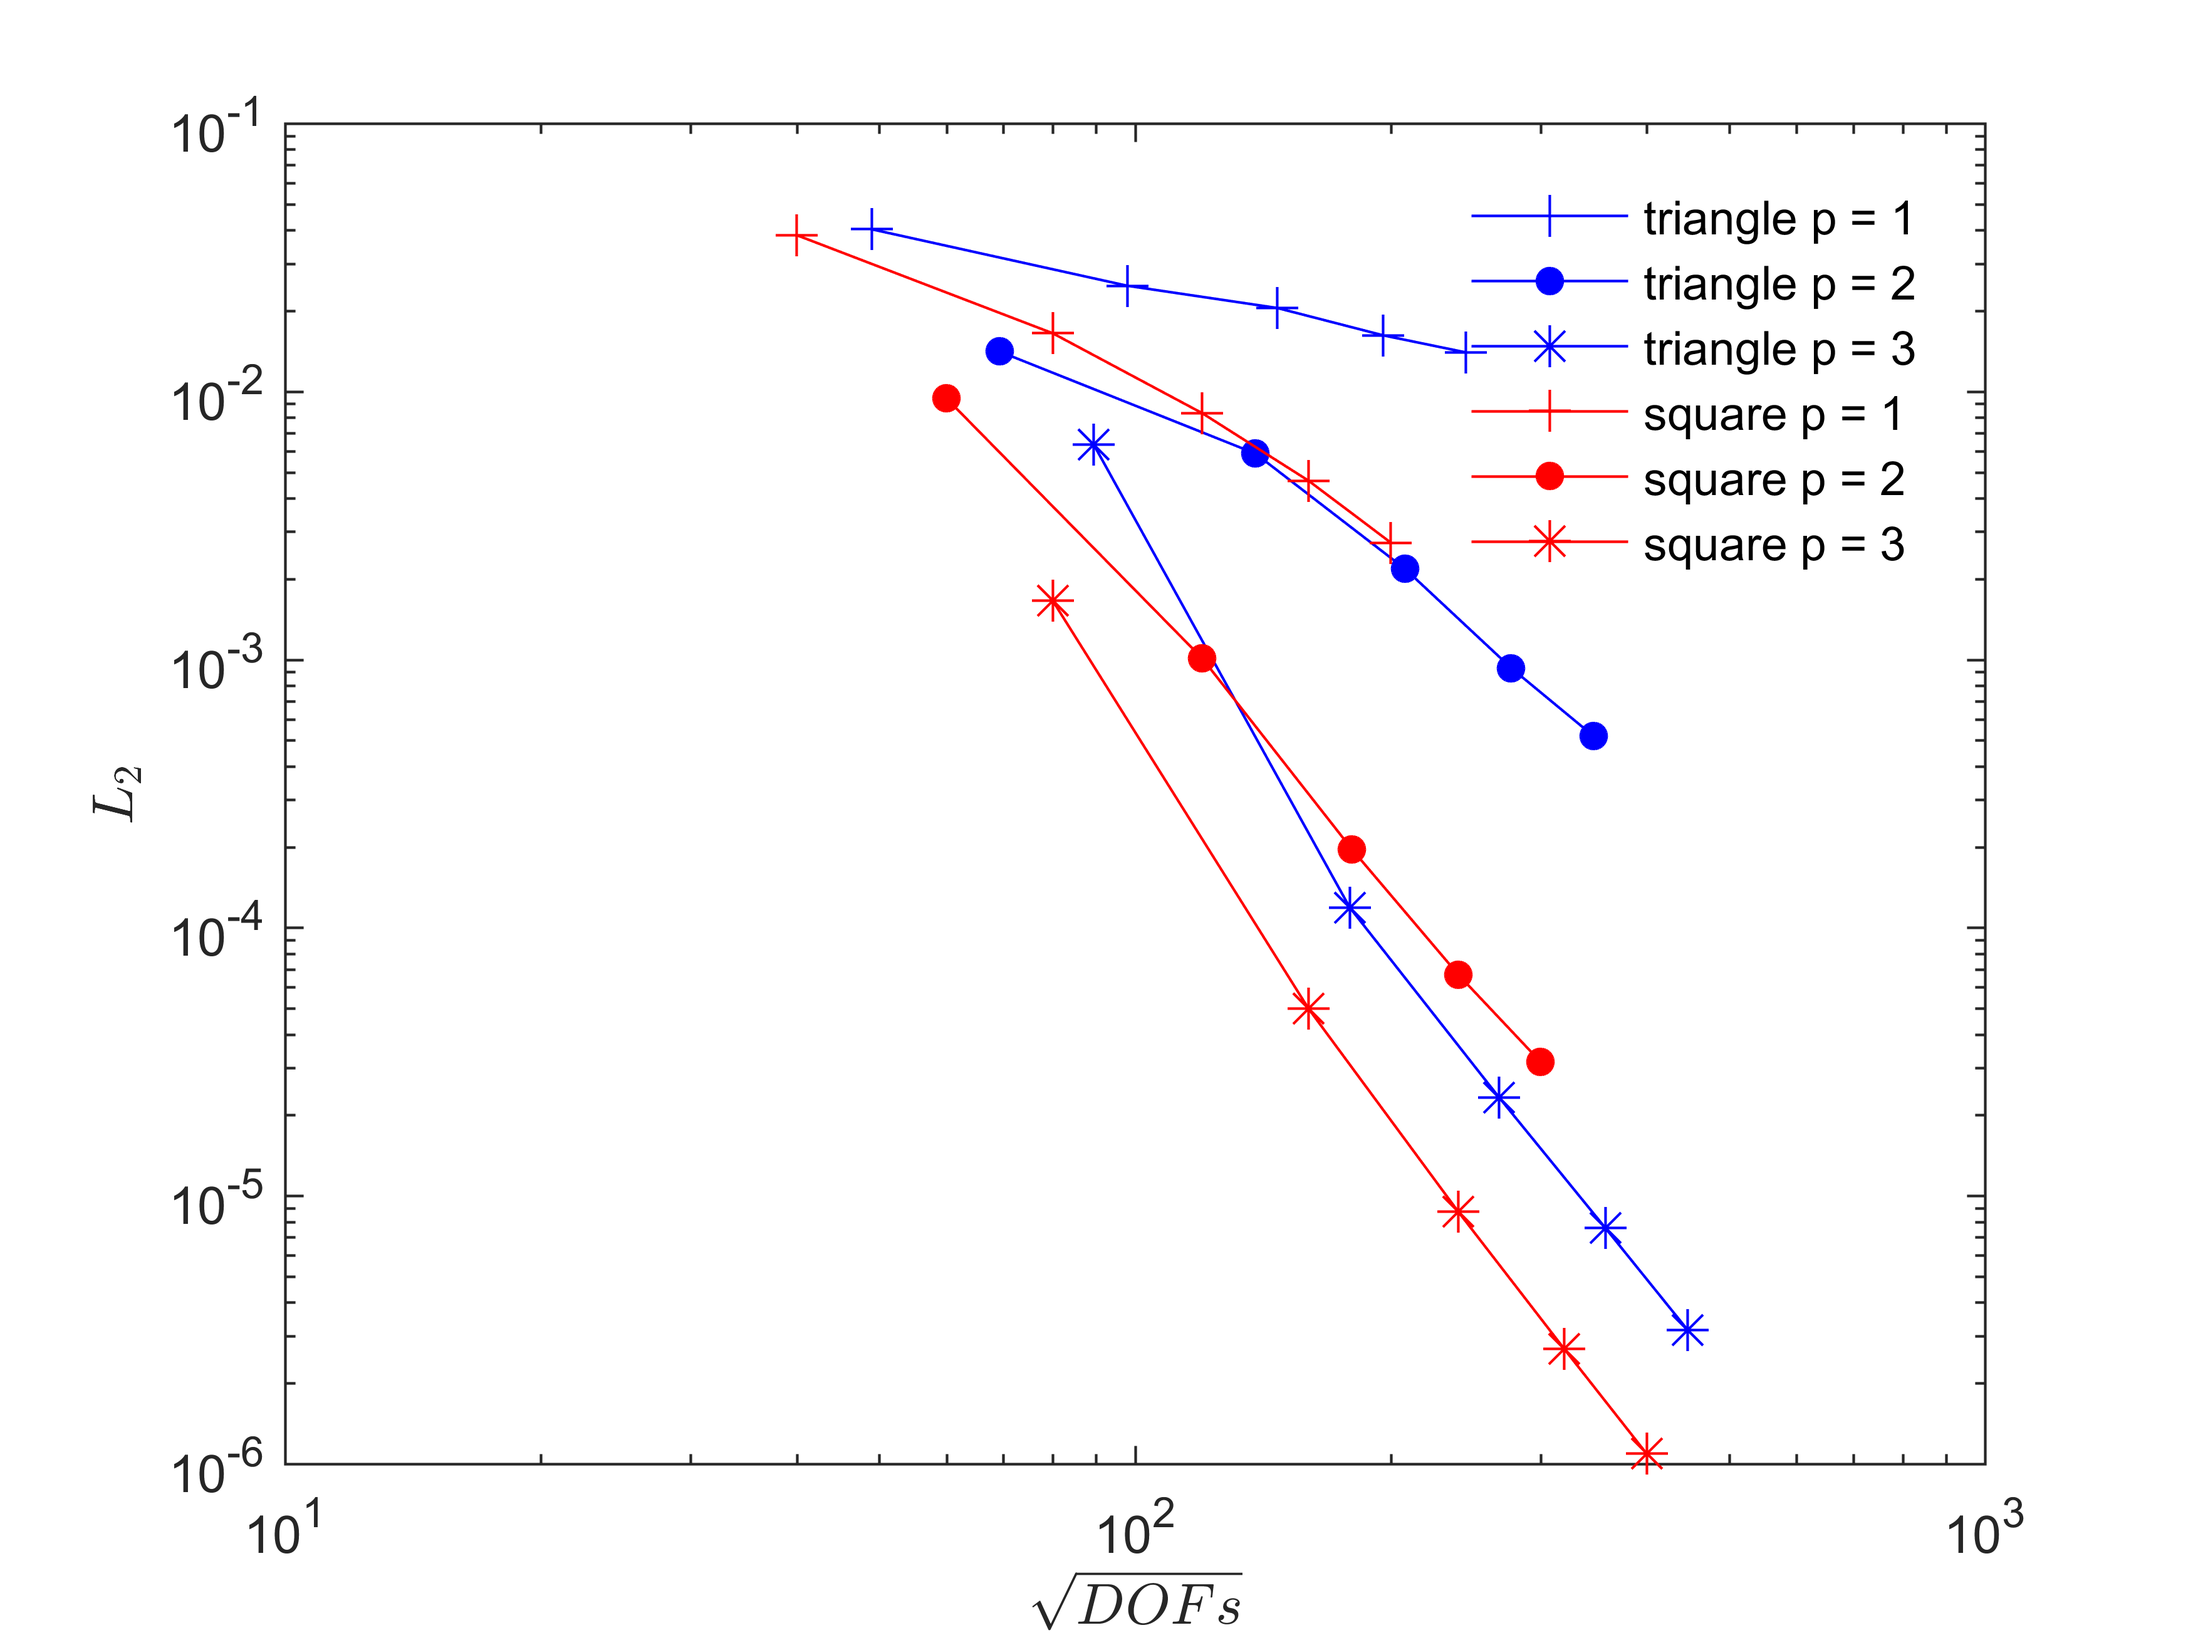
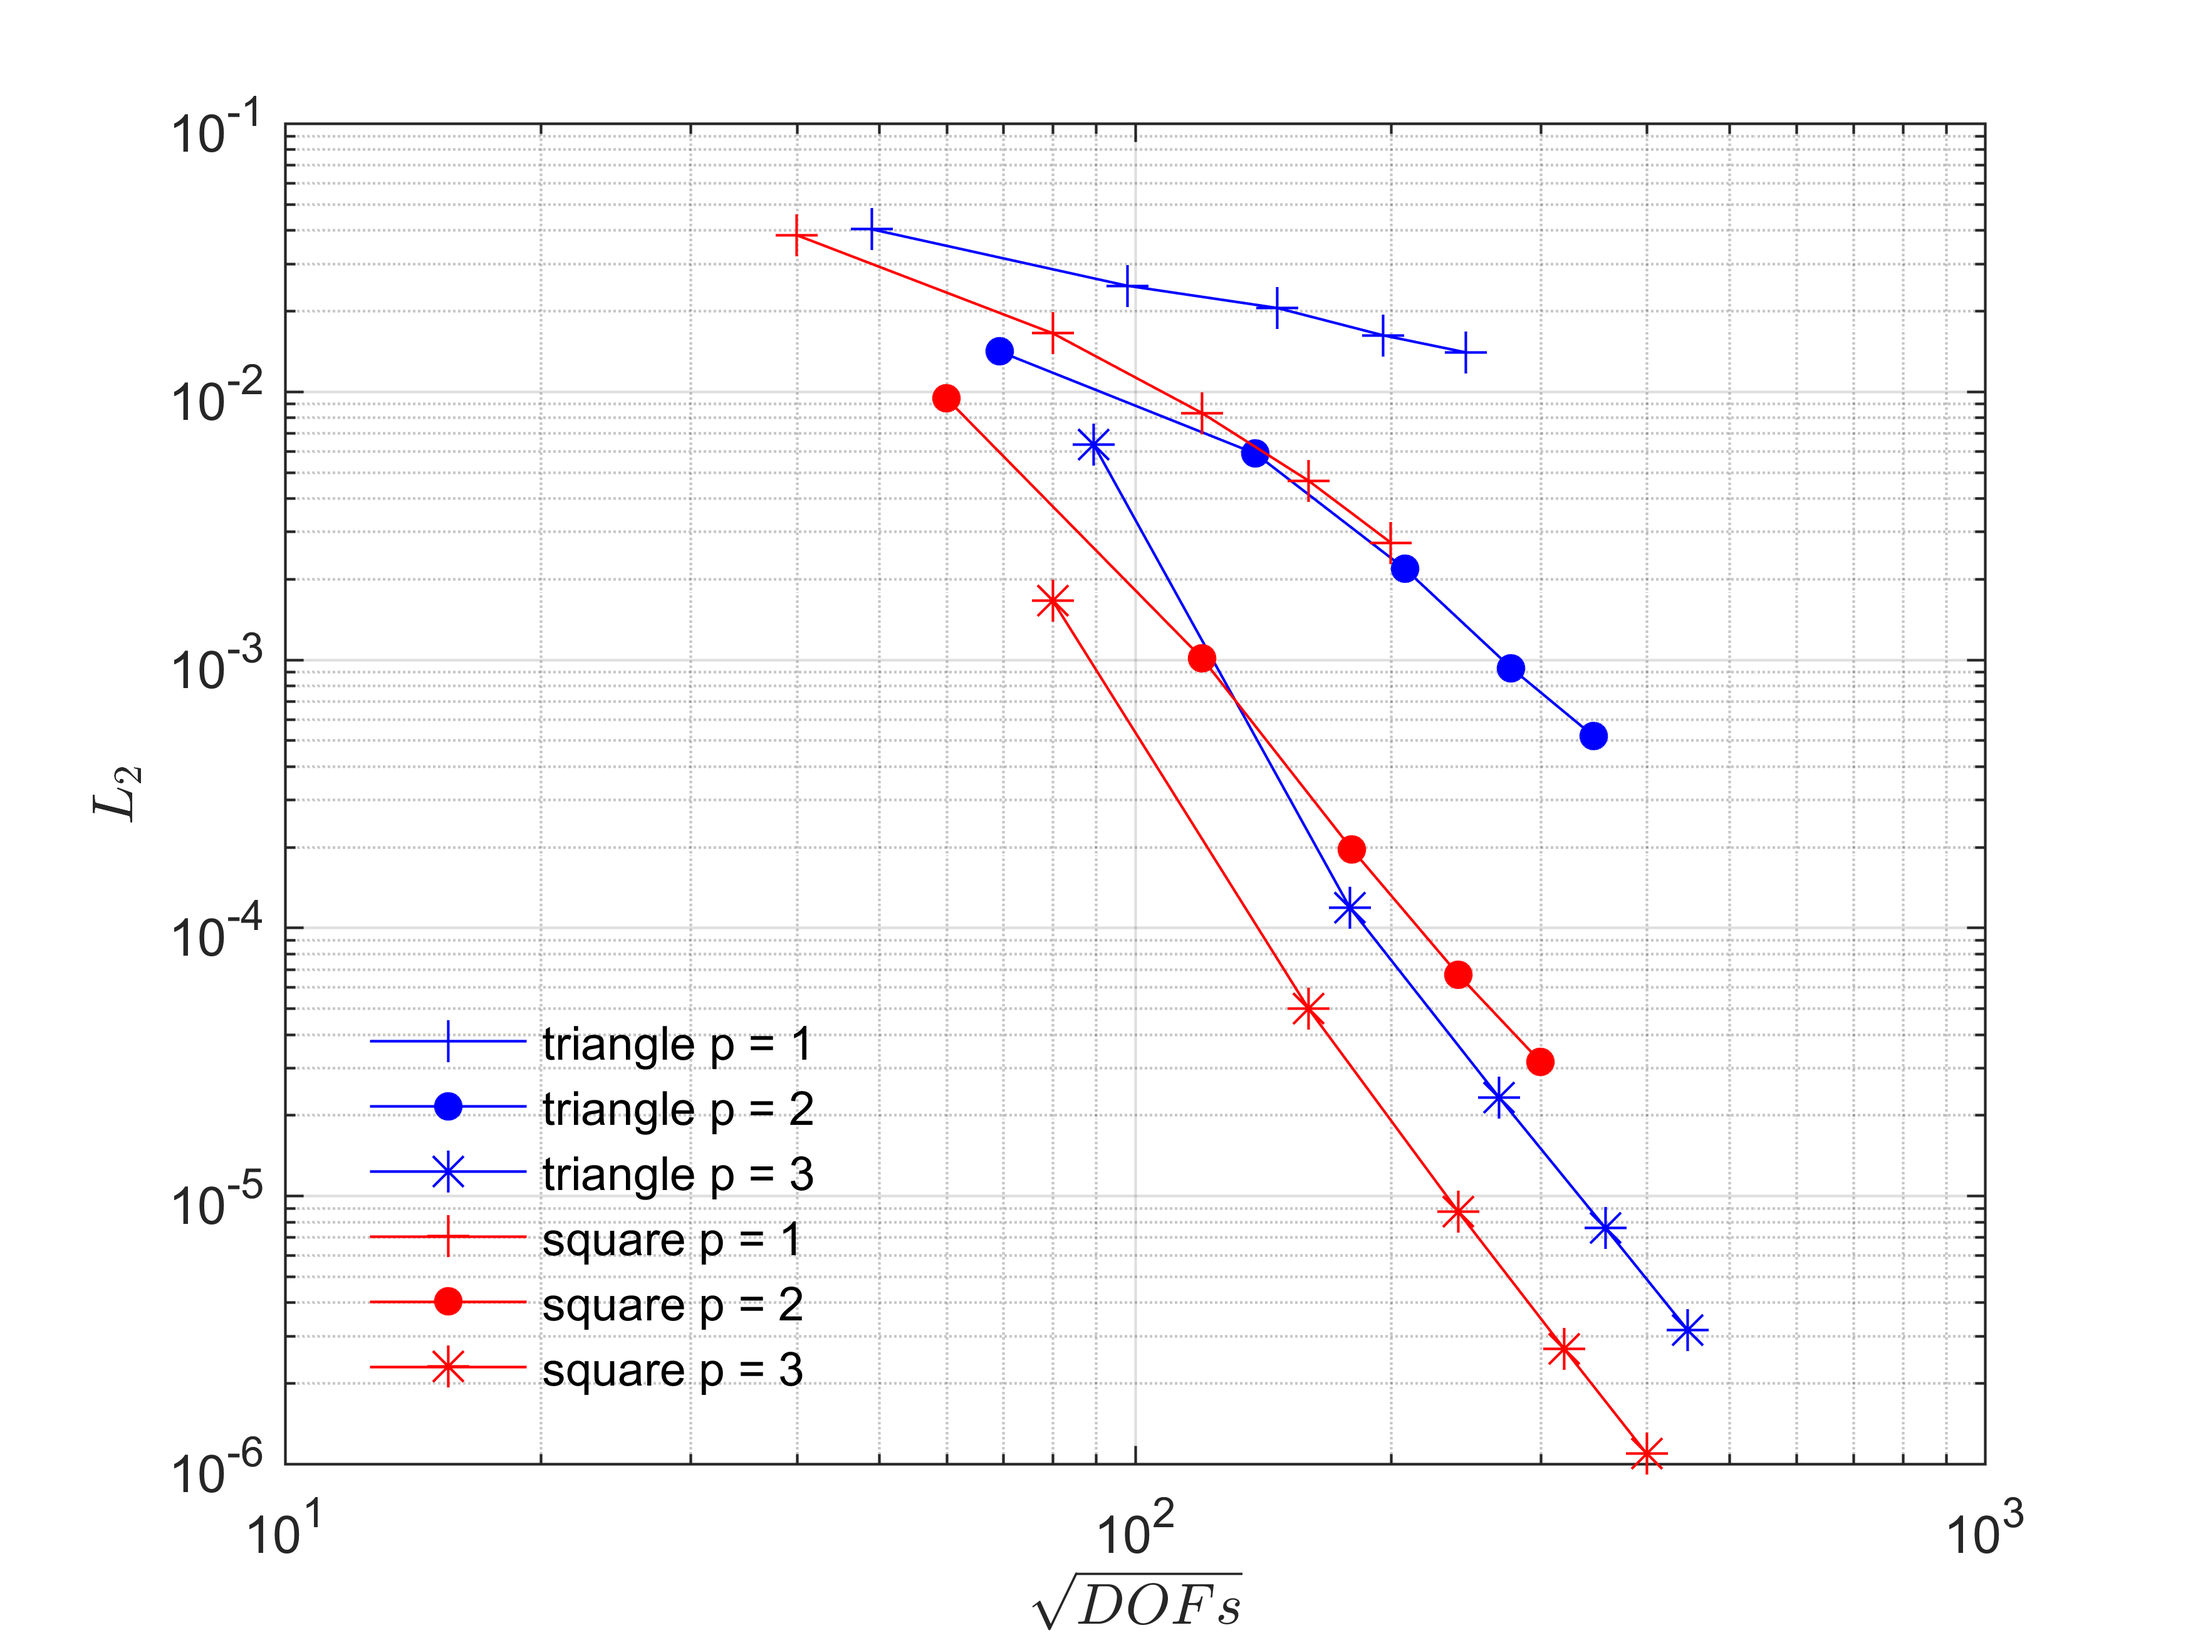
modified pic

diff --git a/Convection2D/Postprocess/ErrorPlot.m b/Convection2D/Postprocess/ErrorPlot.m
@@ -129,8 +129,9 @@ dx = sqrt(data(:, 1).^2*(n+1).^2);
 loglog(dx, data(:, index), 'r*-', 'Markersize', 8, 'MarkerFaceColor', 'r');
 
 t = legend('triangle p = 1', 'triangle p = 2', 'triangle p = 3',...
-    'square p = 1', 'square p = 2', 'square p = 3');
+    'square p = 1', 'square p = 2', 'square p = 3', 'Location', 'SouthWest');
 set(t, 'box', 'off')
 xlabel('$\sqrt{DOFs}$', 'Interpreter', 'Latex')
 % ylabel('$L_2$', 'Interpreter', 'Latex')
 ylabel('$L_{\infty}$', 'Interpreter', 'Latex')
+grid on;
